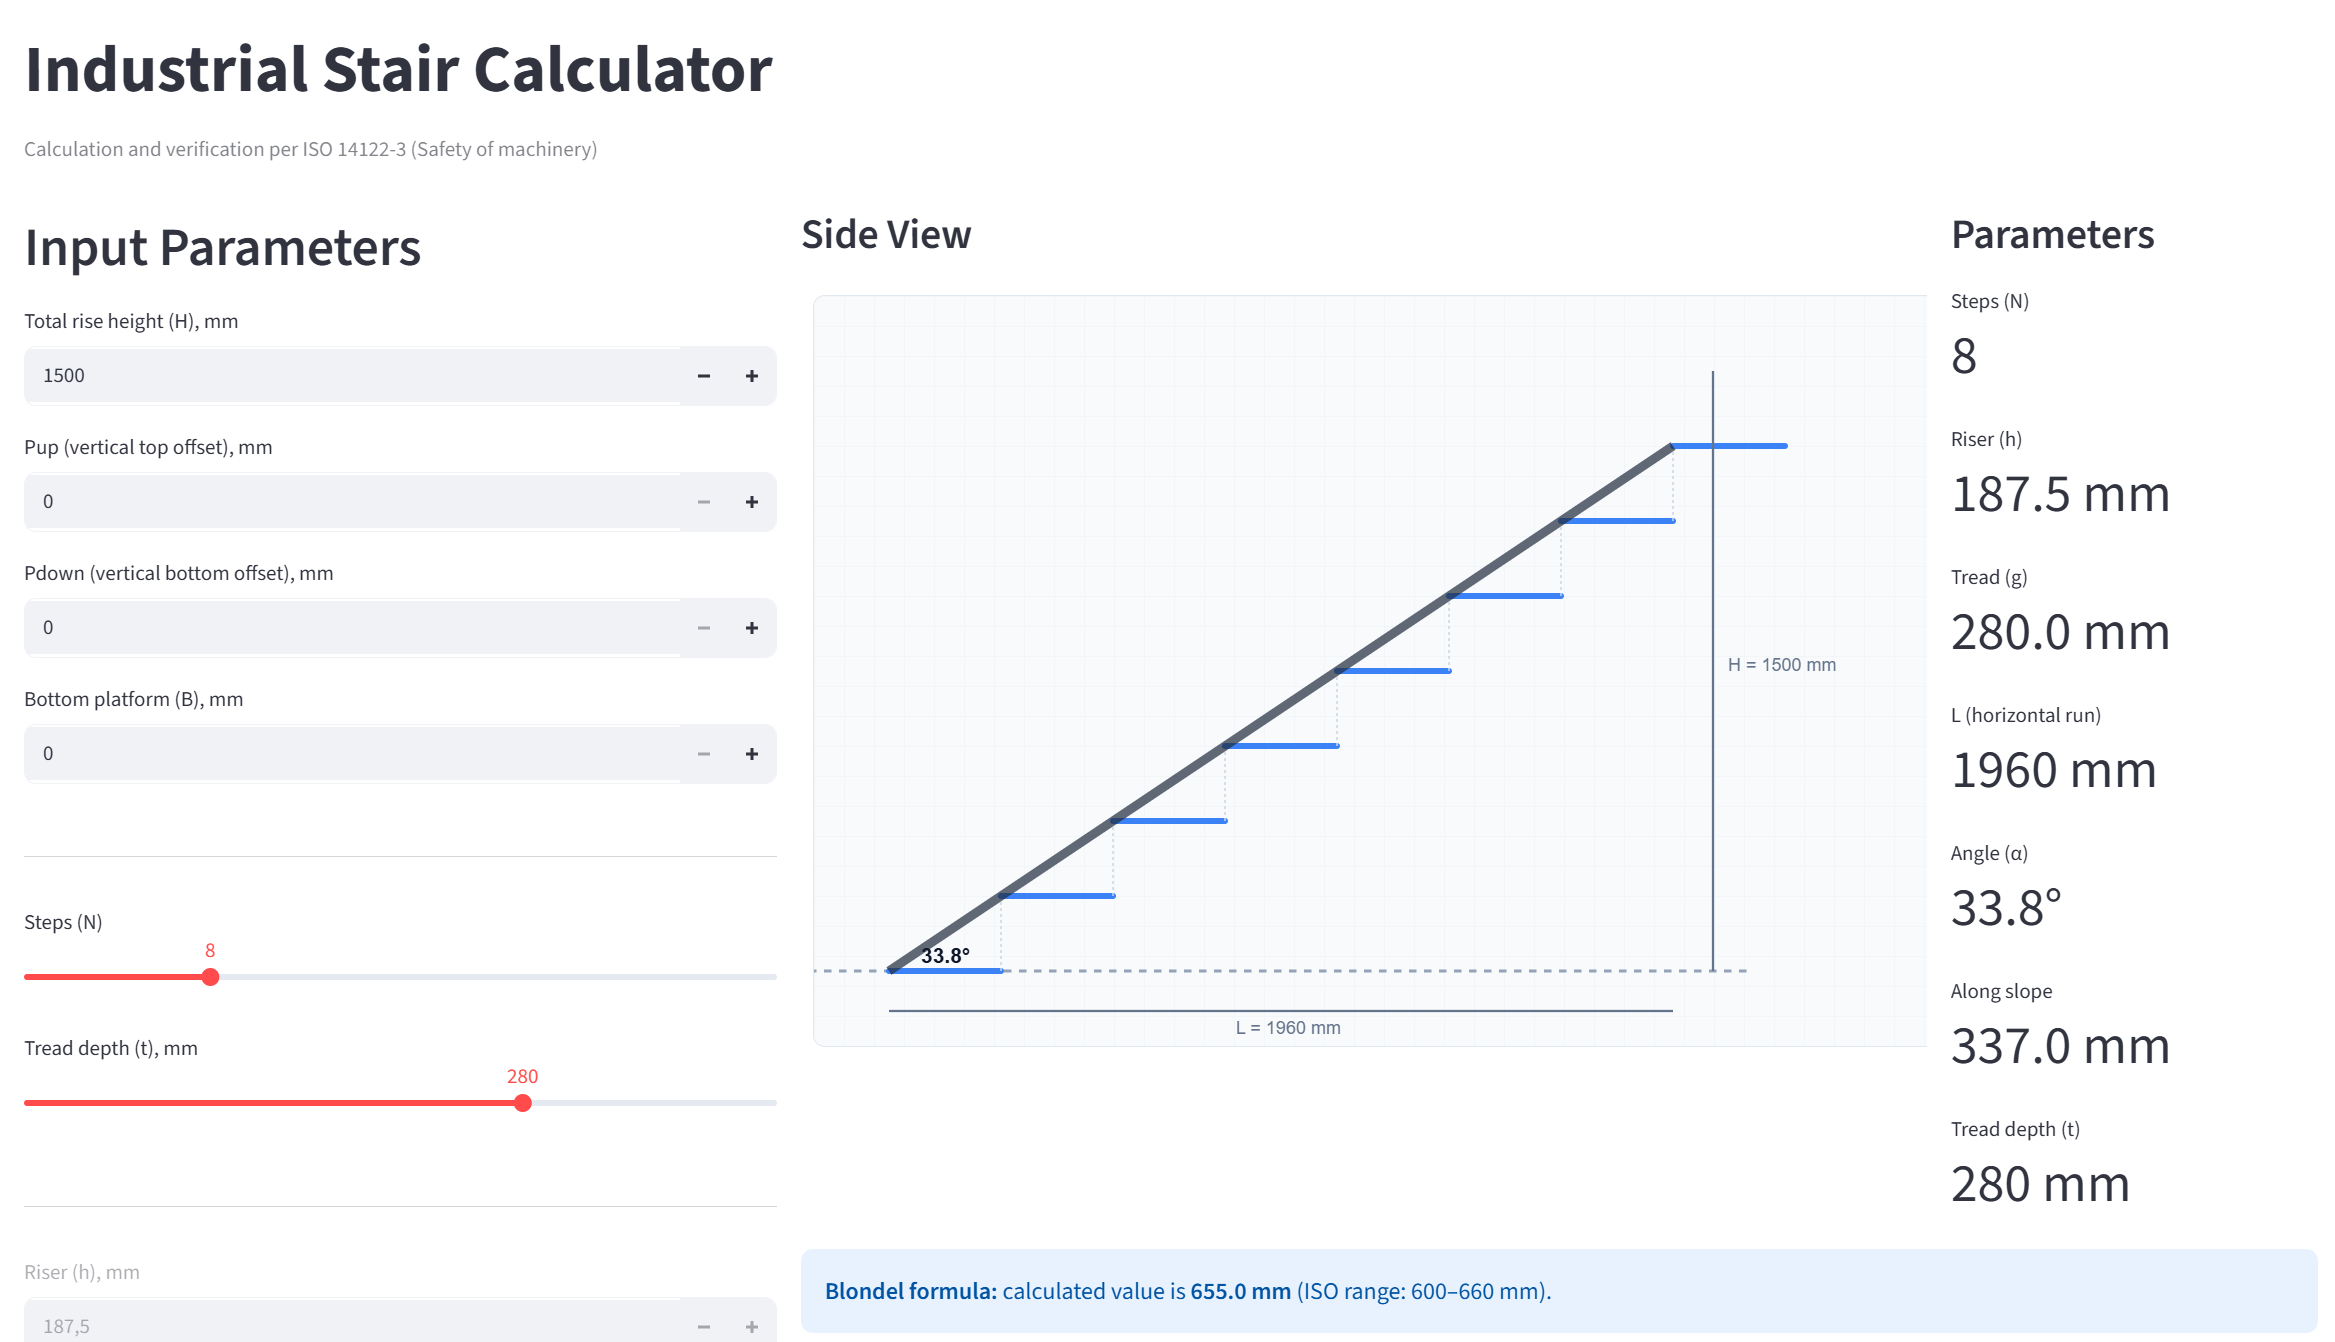
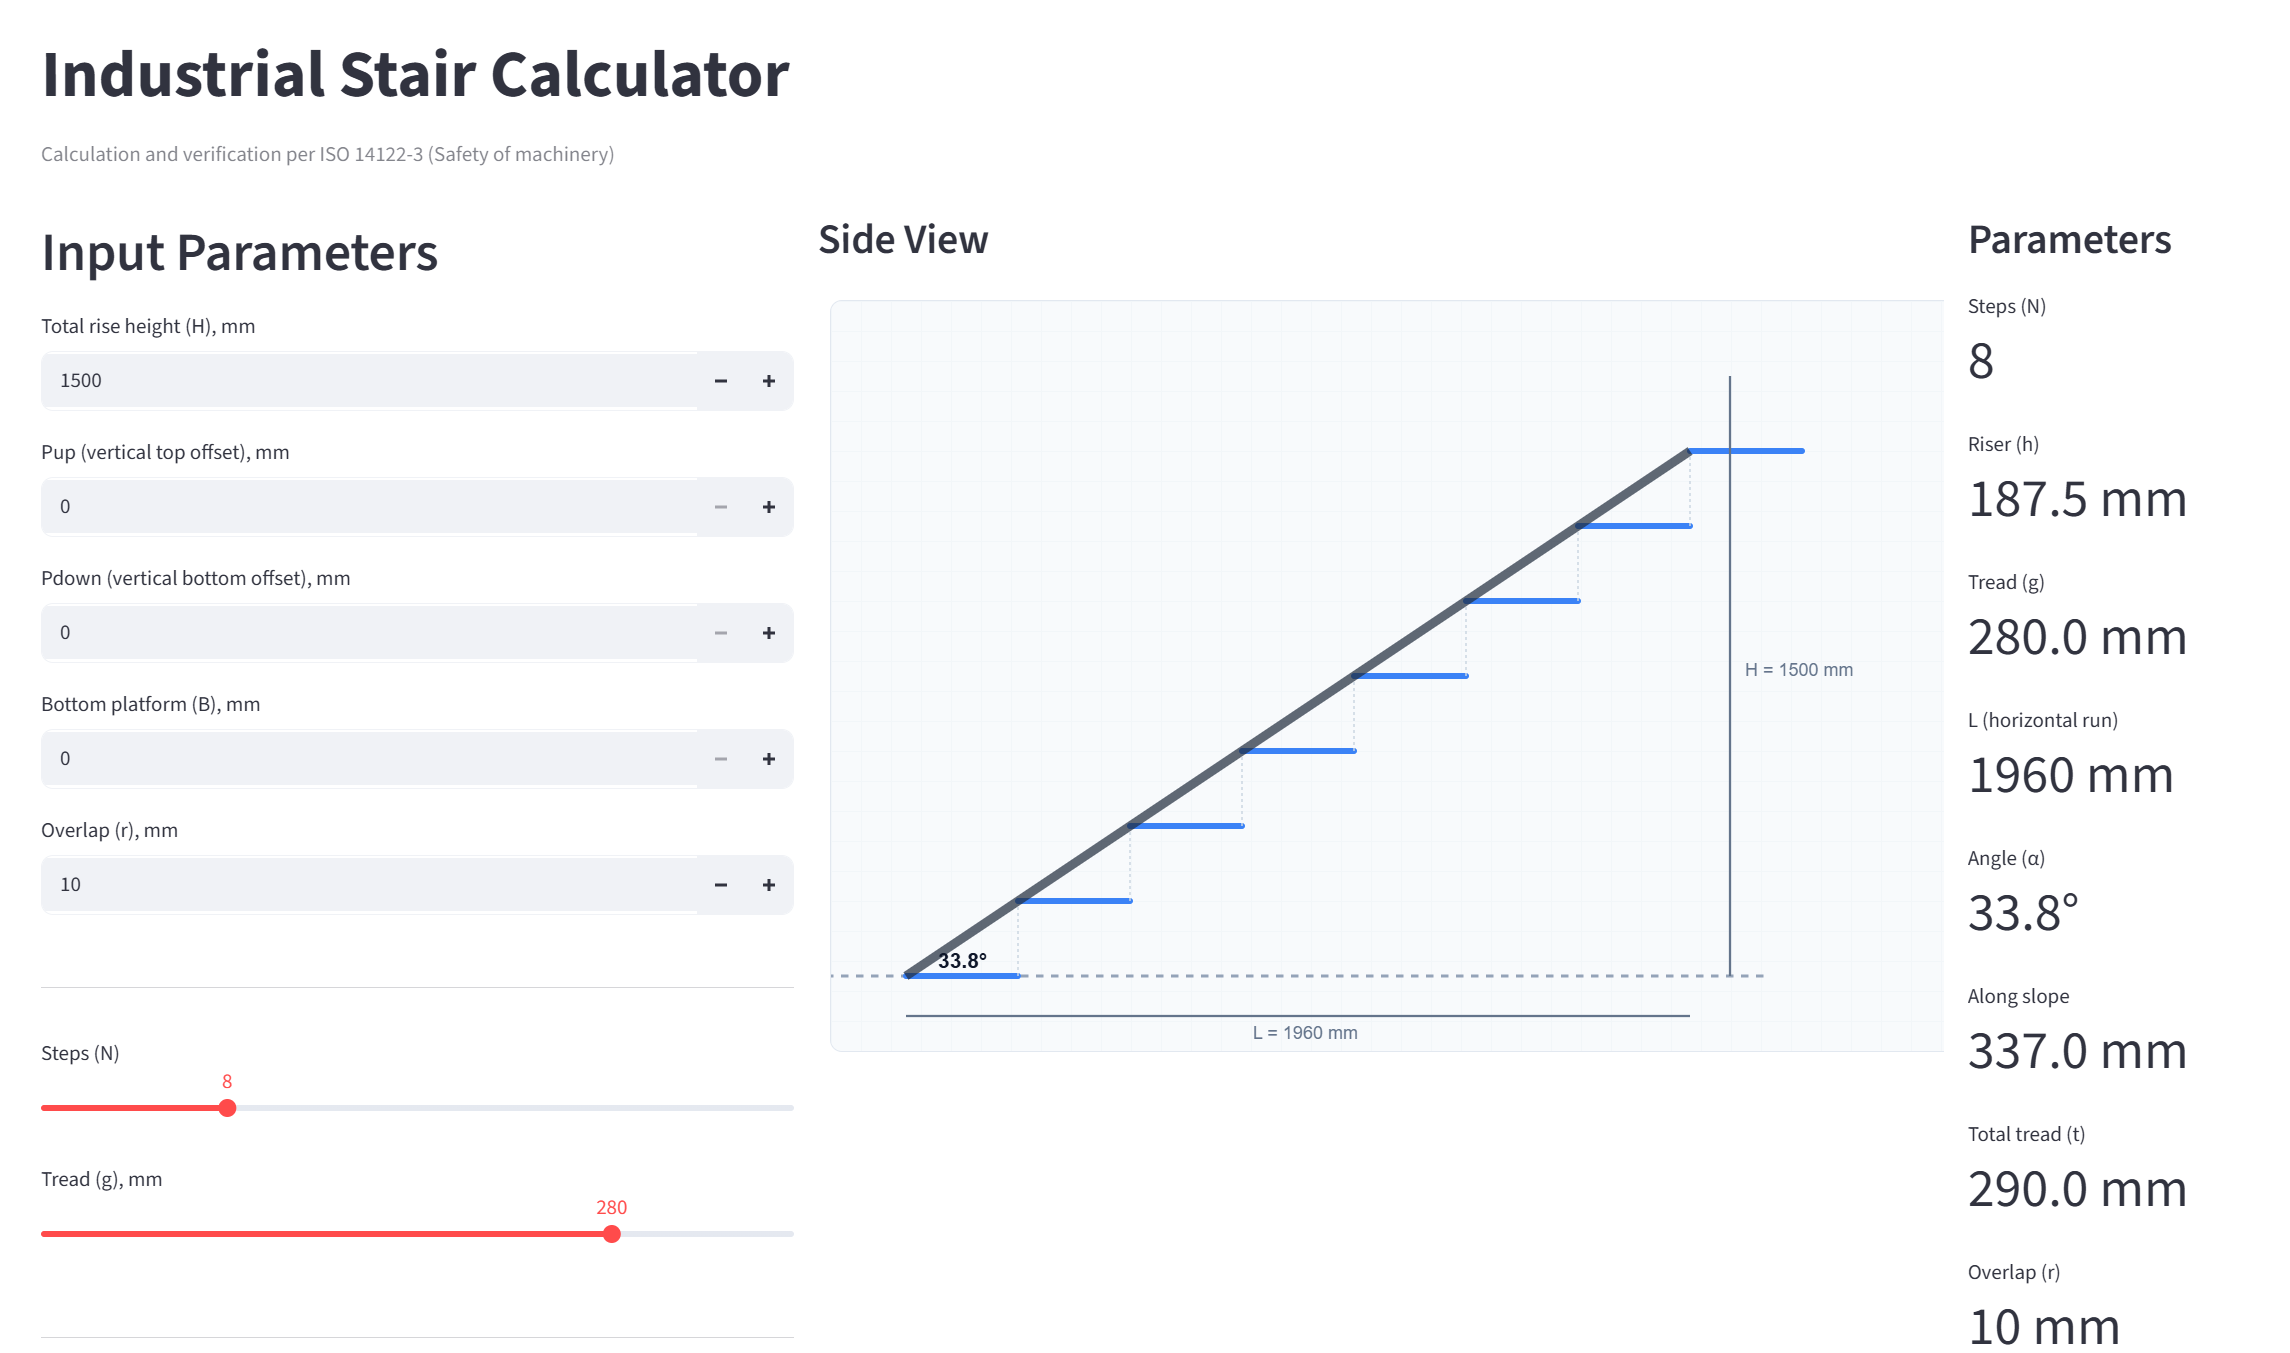
2.0

diff --git a/stair_ru.py b/stair_ru.py
@@ -269,4 +269,4 @@ with col_main:
             )
 
 st.markdown("---")
-st.caption("Версия: 1.8")
+st.caption("Версия: 2.0")

diff --git a/stair.py b/stair.py
@@ -269,4 +269,4 @@ with col_main:
             )
 
 st.markdown("---")
-st.caption("Version: 1.8")
+st.caption("Version: 2.0")

diff --git a/README.md b/README.md
@@ -80,7 +80,7 @@ streamlit run stair.py    # or stair_ru.py
 
 ## Version
 
-**1.8** — Latest release. See version tag in the app footer.
+**2.0** — Latest release. See version tag in the app footer.
 
 ## Reference
 
